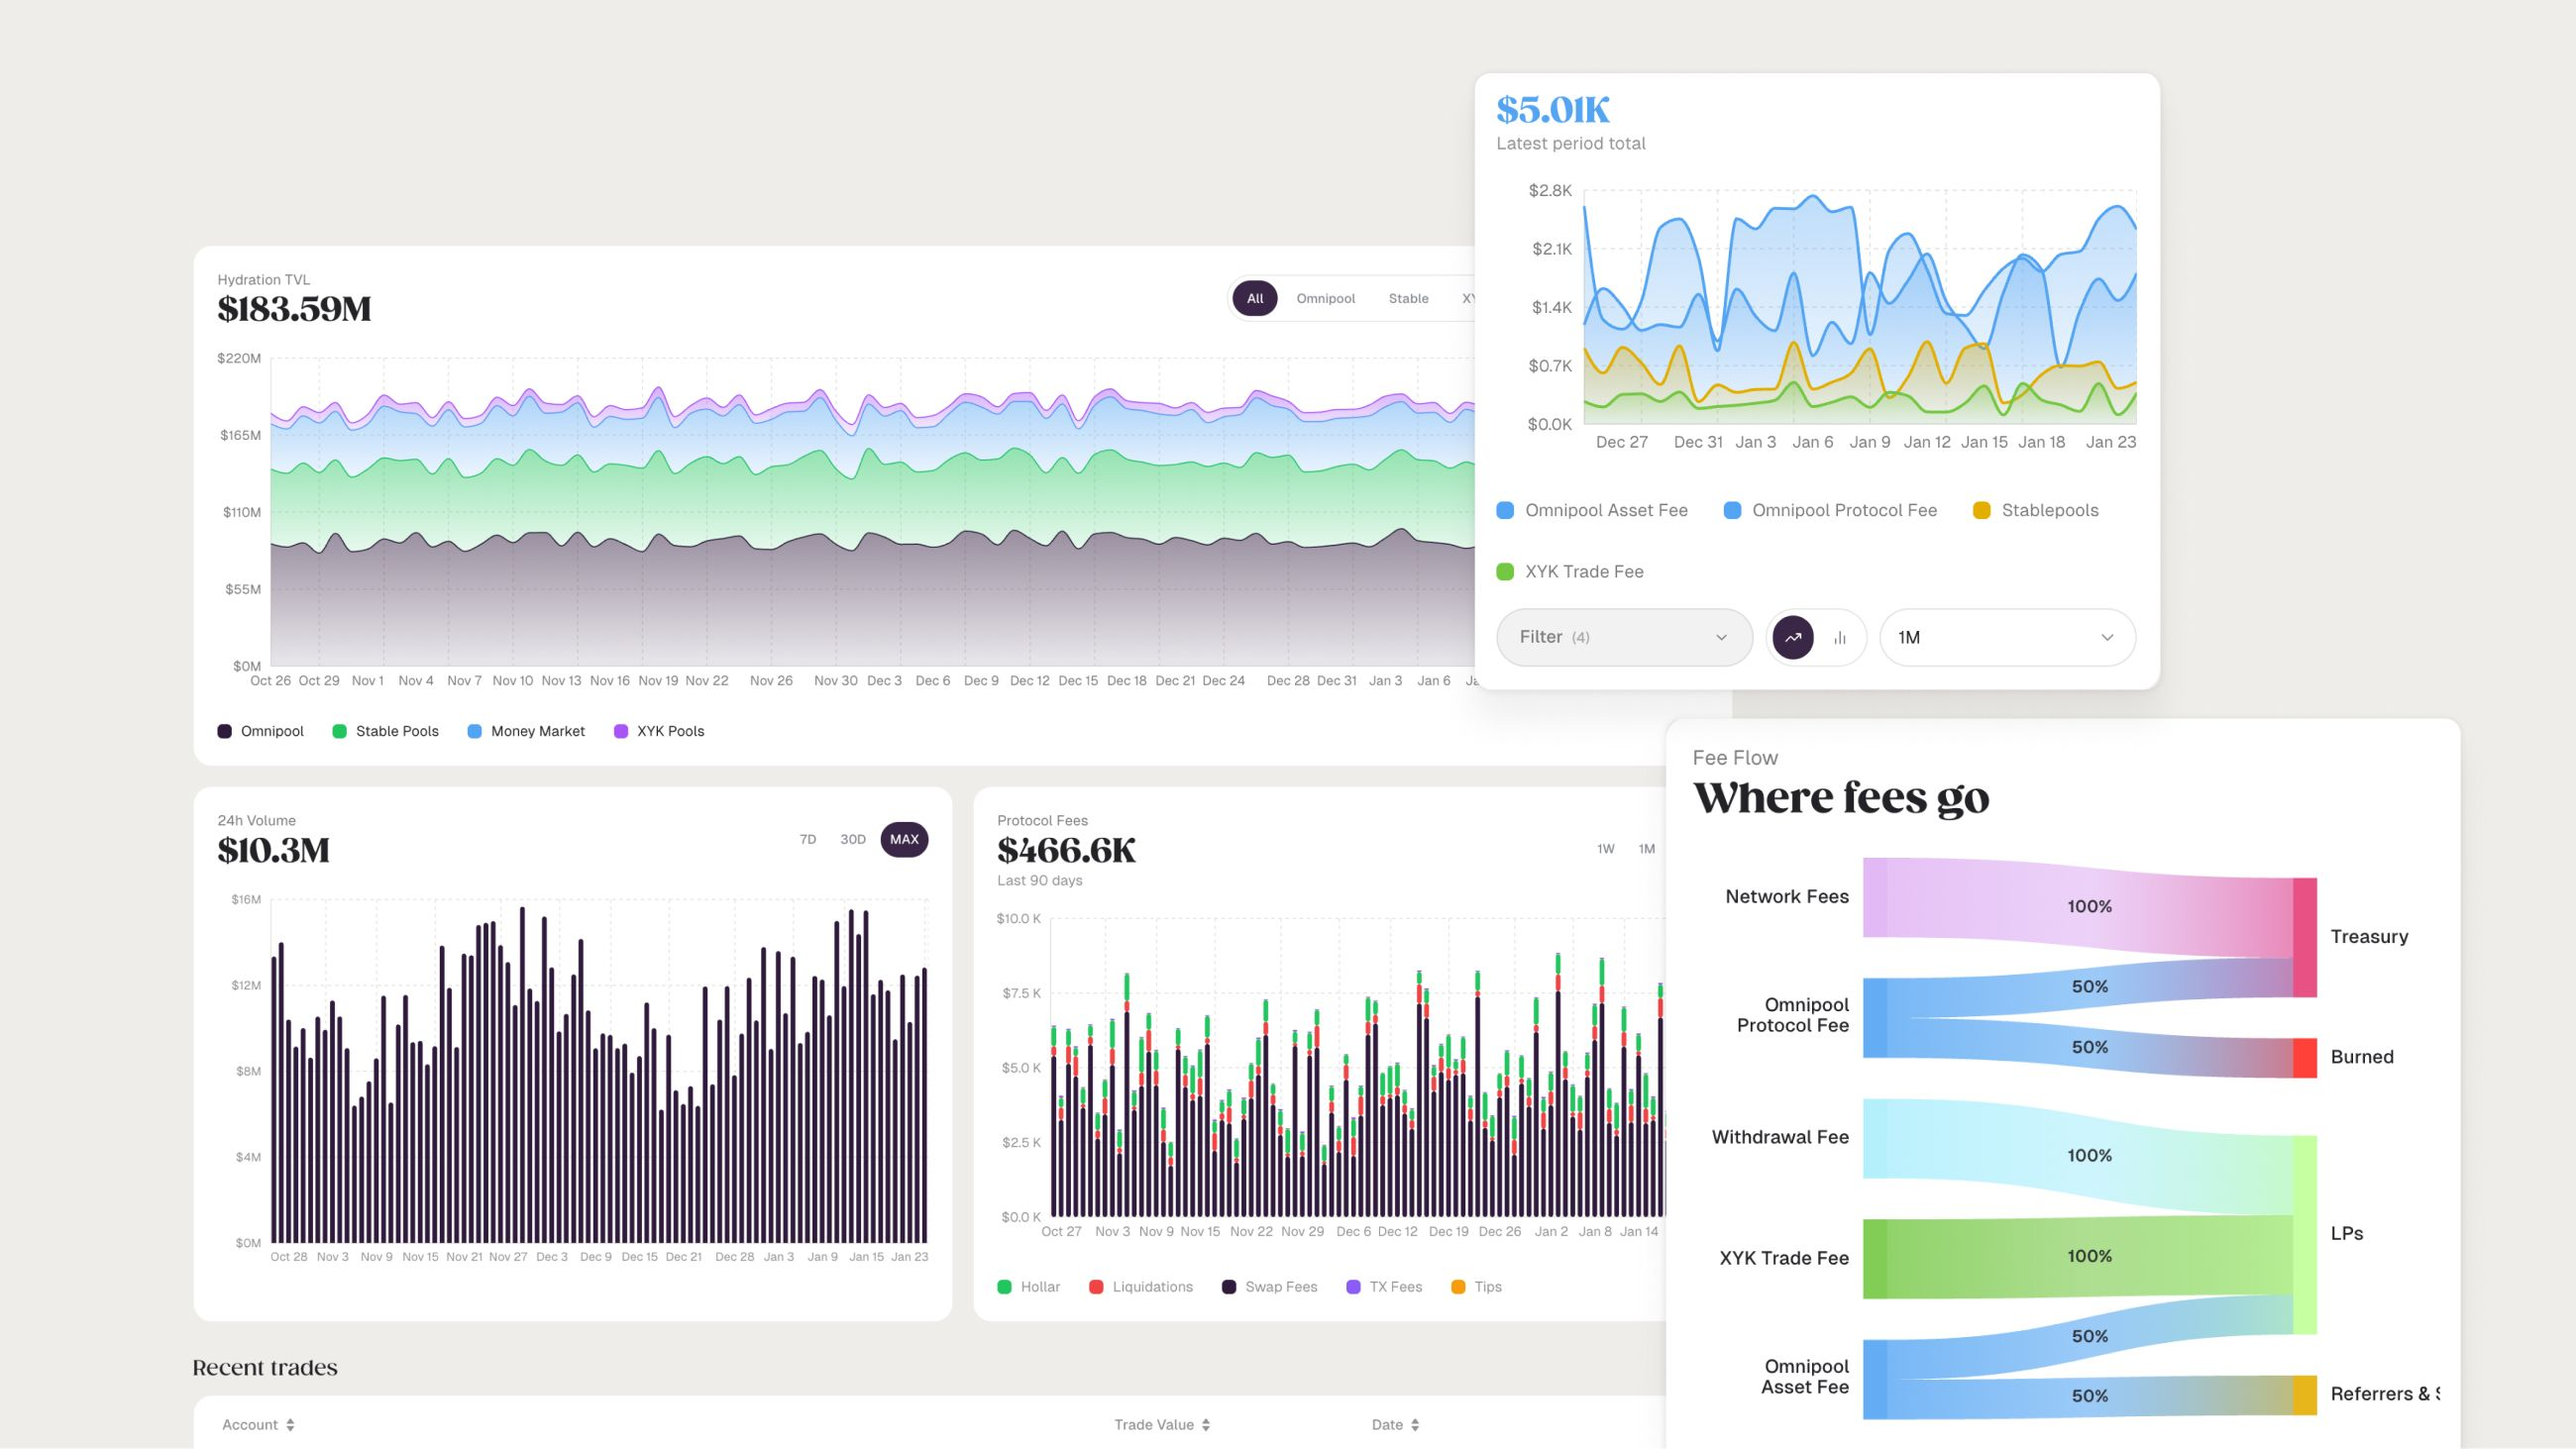
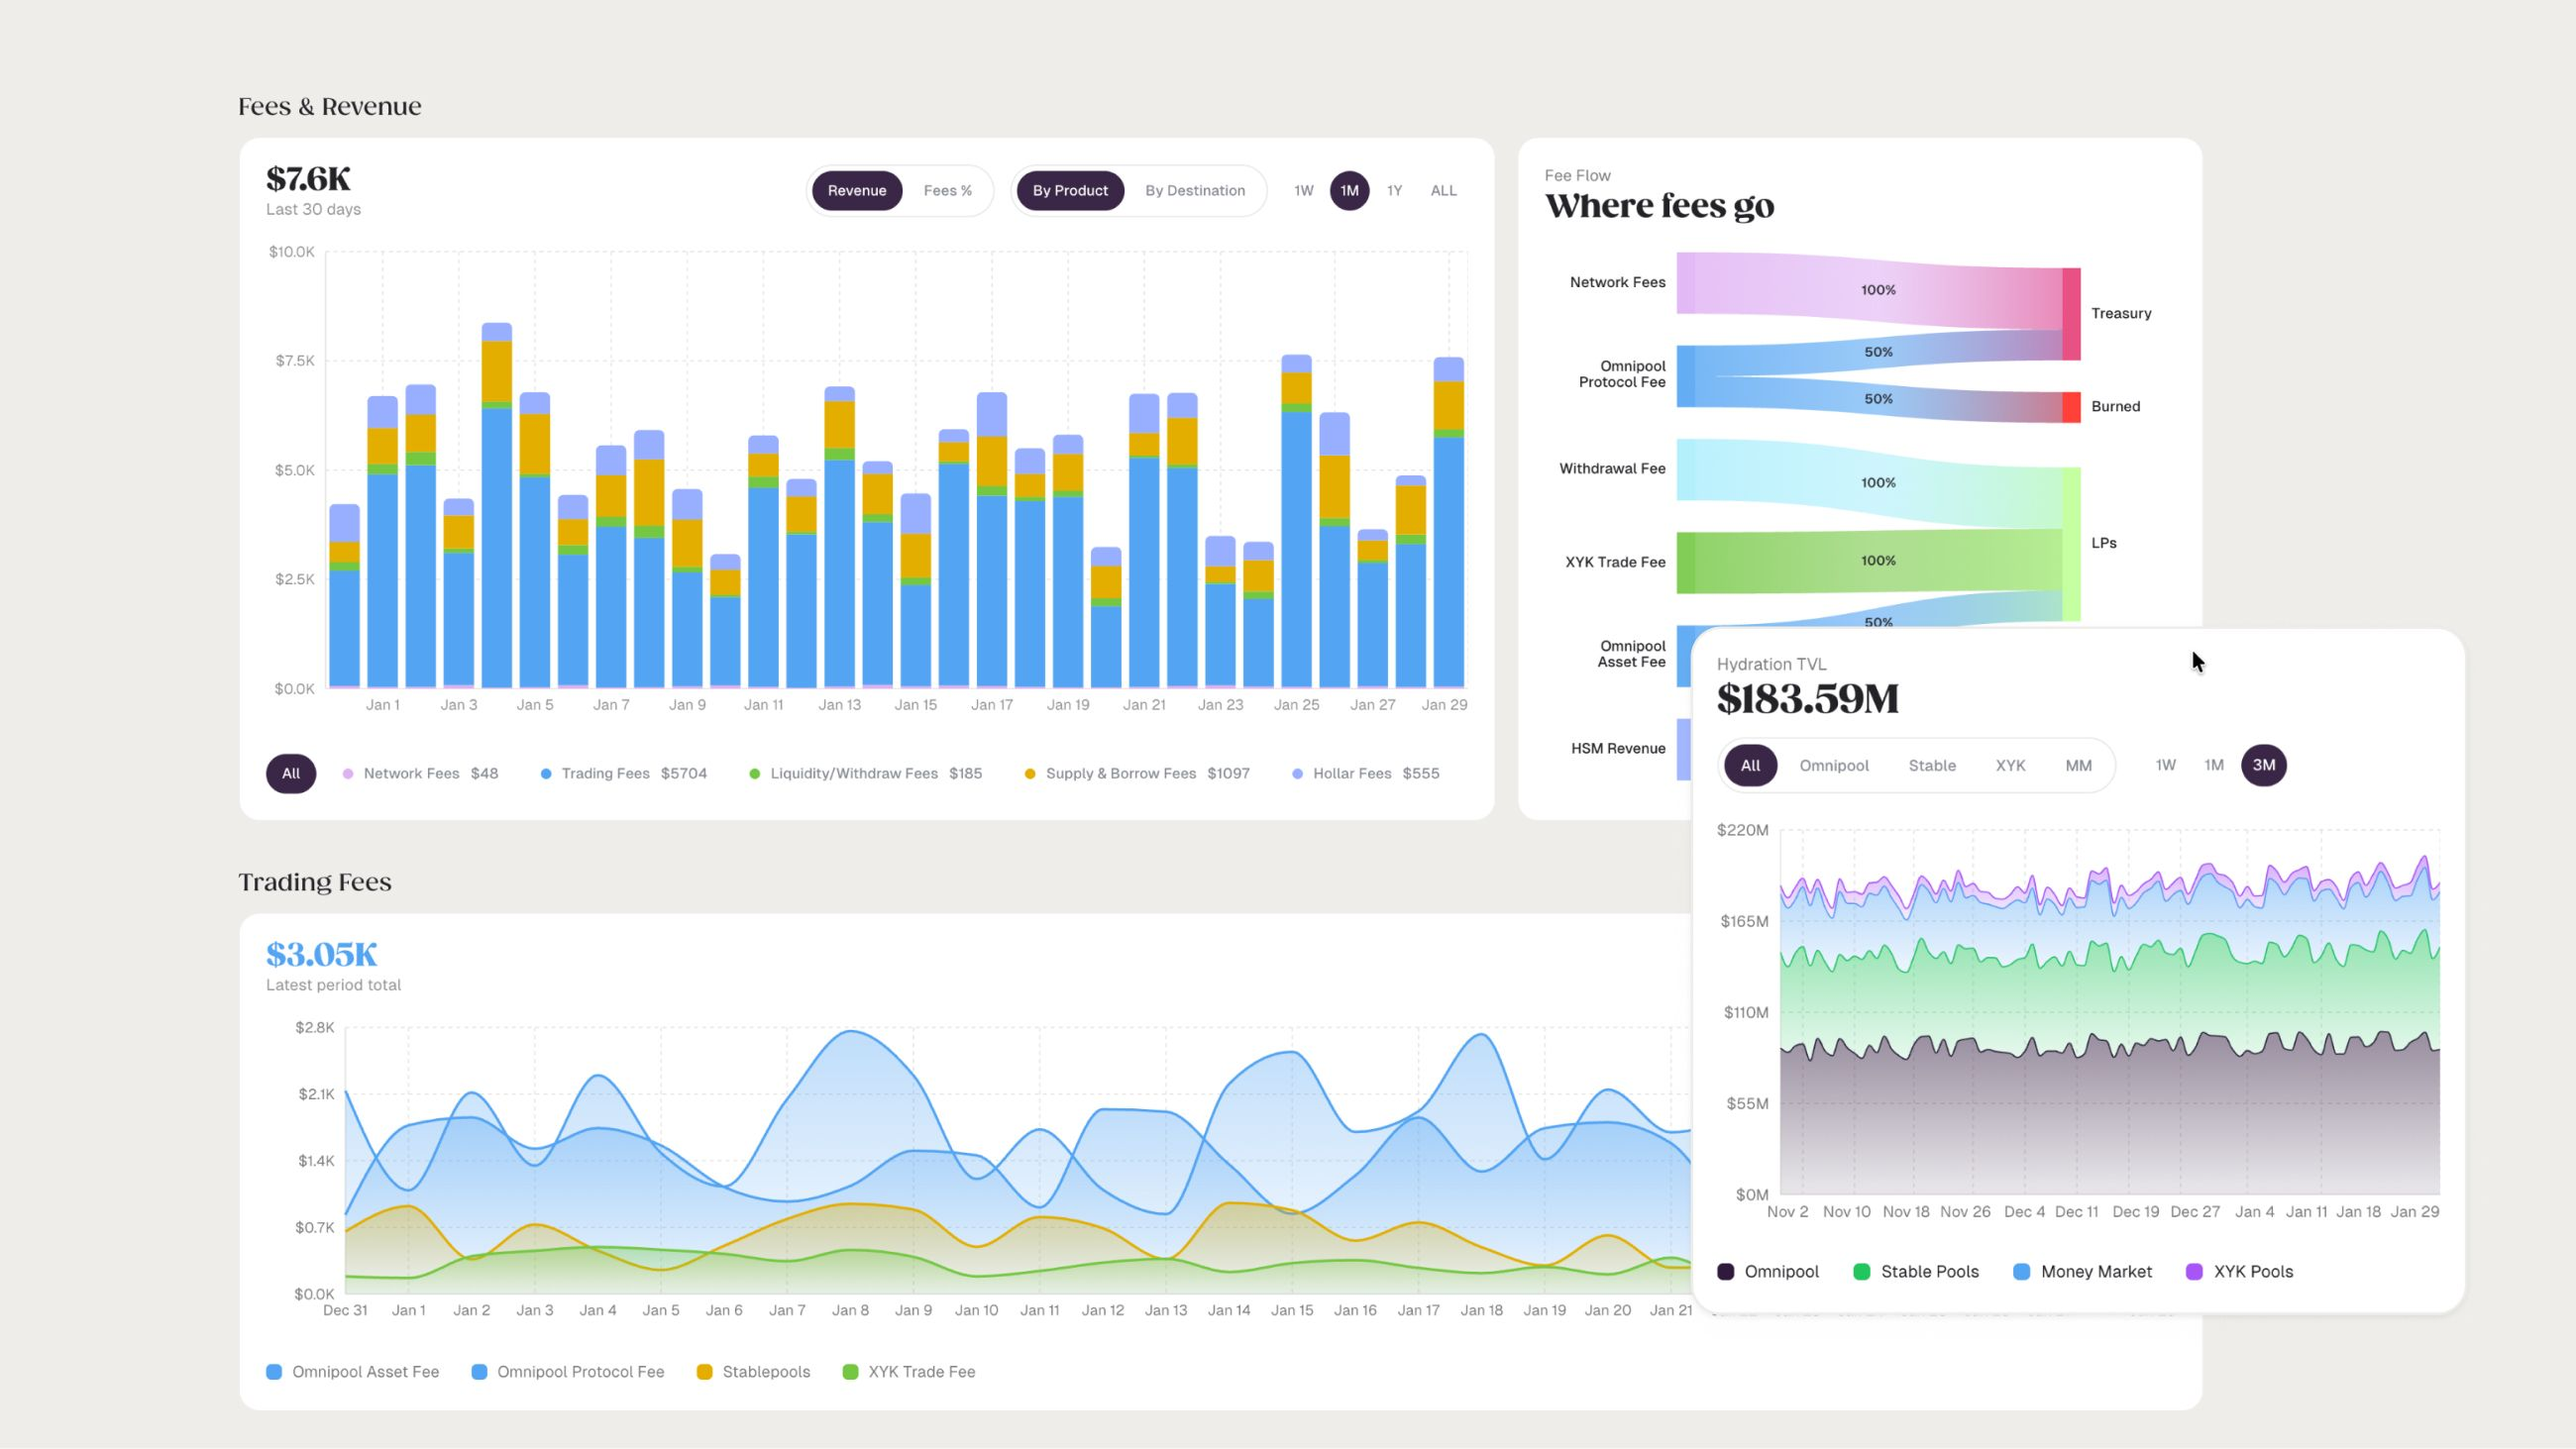
style: keep project body headlines and text left-aligned in centered mode

diff --git a/themes/folio/source/css/style.css b/themes/folio/source/css/style.css
@@ -247,14 +247,14 @@
 }
 
 [data-header-style="centered"] .project-body {
-  text-align: center;
+  text-align: left;
 }
 
 [data-header-style="centered"] .project-body p {
-  text-align: center;
-  margin-left: auto;
-  margin-right: auto;
-  max-width: 700px;
+  text-align: left;
+  margin-left: 0;
+  margin-right: 0;
+  max-width: 100%;
   margin-bottom: var(--space-md);
 }
 

diff --git a/source/work/hydration.md b/source/work/hydration.md
@@ -10,7 +10,8 @@ carousel:
   - /images/work/hydration.json
   - light: /images/work/hydration_2.jpg
     dark: /images/work/hydration_2_dark.jpg
-  - /images/work/hydration_3.jpg
+  - light: /images/work/hydration_3.jpg
+    dark: /images/work/hydration_3_dark.jpg
   - light: /images/work/hydration_4.jpg
     dark: /images/work/hydration_4_dark.jpg
   - light: /images/work/hydration_5.jpg
